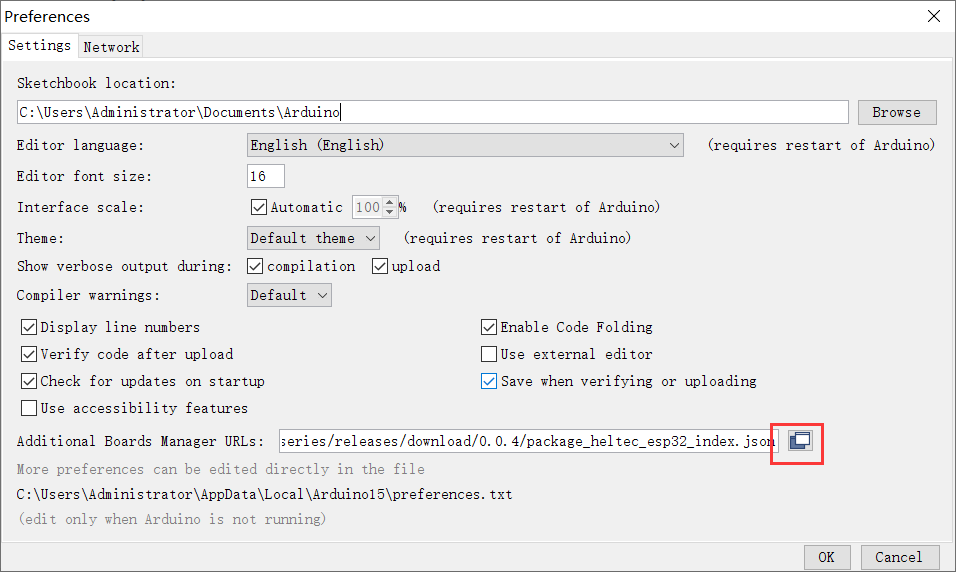
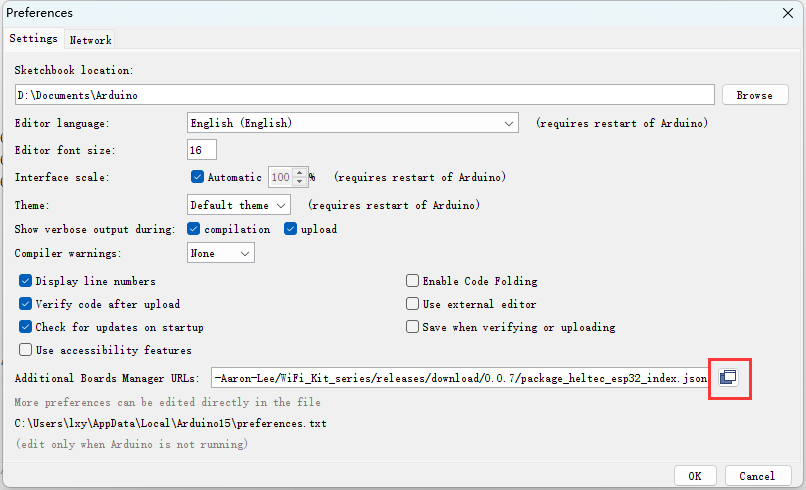
Update 1303

Changed region(s): [[0.0, 0.0, 1.0, 1.0], [0.4963, 0.551, 0.8065, 0.7041], [0.0, 0.0, 0.1551, 0.0918]]

diff --git a/doc/_ext/_static/js/custom.js b/doc/_ext/_static/js/custom.js
@@ -14,6 +14,7 @@ var prod_obj = {
         {text: "HT-M02_4G", value: "ht-m02_4g"},
         {text: "HT-M02_POE", value: "ht-m02_poe"},
         {text: "SX1301module", value: "sx1301module"},
+        {text: "SX1303module", value: "sx1303module"},
     ],
     node: [
         {text: "CUBECELL", value: "cubecell"},

diff --git a/doc/gateway/sx1303module/source/conf.py b/doc/gateway/sx1303module/source/conf.py
@@ -1,0 +1,25 @@
+# Configuration file for the Sphinx documentation builder.
+#
+# For the full list of built-in configuration values, see the documentation:
+# https://www.sphinx-doc.org/en/master/usage/configuration.html
+
+# -- Project information -----------------------------------------------------
+# https://www.sphinx-doc.org/en/master/usage/configuration.html#project-information
+
+project = 'sx1303module'
+conf_py_path = '/doc/gateway/sx1303module/source/'
+
+copyright = '2022, shug'
+author = 'shug'
+release = 'latest'
+
+# -- General configuration ---------------------------------------------------
+# https://www.sphinx-doc.org/en/master/usage/configuration.html#general-configuration
+
+import os
+import sys
+sys.path.insert(0, os.path.abspath('../../../_ext/'))
+from common_conf import *
+
+
+update_path(conf_py_path)

diff --git a/doc/node/esp32/source/quick_start.md b/doc/node/esp32/source/quick_start.md
@@ -7,12 +7,22 @@ The Heltec ESP32 development environment already contains the basic code. For th
 
 ![](img/quick_start/09.png)
 
+
+
 **There are two methods to install the development framework, choose one of they:**
 
 - [Via Arduino Board Manager](via-arduino-board-manager)
 - [Via Git](via-git)
 
 - [Via Local File](via-local-file)
+
+```Tip:: When we updated the V3 series development environment, we integrated the sample code and added it to the development environment without additional downloading libraries. We have handled the compatibility of the sample code so that the code can be used for various versions of the ESP32 development board. When you use the new development environment, the old version of the library can no longer be used, such as ESP32_ LoRaWAN, Heltec_ ESP32。 When you update the development environment, we recommend that you delete the old development environment, download the new development environment, and delete the old version of the library. For Git, it has been updated to the V3 series development environment on September 19, 2022. For  "Arduino Boards Manager", V0.0.7 is the V3 series development environment. If you modify a lot of code in the old development environment and use it in the project, we recommend that you still use the old development environment.
+
+```
+
+```Tip:: Due to the ESP32 chip was replaced in the V3 version of the ESP32 series product. If you install the old environment through Git and get updates through "git pull", you need to execute 'get.exe "under the" WiFi_Kit_series\esp32\tools "path again to download the latest compilation chain.
+
+```
 
 &nbsp;
 
@@ -33,9 +43,9 @@ Open Arduino IDE, and click `File`->`Peferences`.
 
 ![](img/quick_start/03.png)
 
-Click `Tools --> Board --> Boards Manager...`, search `Heltec ESP32` in the new pop-up dialog, then click `install`
+Click `Tools --> Board --> Boards Manager...`, search `Heltec ESP32` in the new pop-up dialog, then select the latest version and click `install`
 
-![](img/quick_start/04.png)
+![](img/quick_start/04.png)	
 
 ![](img/quick_start/05.png)
 

diff --git a/doc/gateway/sx1303module/source/qucik_start.md b/doc/gateway/sx1303module/source/qucik_start.md
@@ -1,0 +1,26 @@
+# SX1303 LoRa Gateway Module Quick Start
+
+{ht_translation}`[简体中文]:[English]`
+
+## Summary
+
+The HT1303 LoRaWAN concentrator is a mini-PCIe-based LPWAN concentrator module based on the Semtech SX1303, which enables easy integration into existing routers or other network equipment equipped with LPWAN Gateway capabilities.
+
+## Technical Characteristics
+
+### Pin Definition
+
+![](img/quick_start/01.png)
+
+### Electrical Characteristics
+
+![](img/quick_start/02.png)
+
+&nbsp;
+
+## Reference Design
+
+For reference design circuit, please refer to [https://resource.heltec.cn/download/HT-1303/HT-1303_Reference_Design.pdf](For reference design circuit, please refer to https://resource.heltec.cn/download/HT-1303/HT-1303_Reference_Design.pdf).
+
+For reference code, please refer to [https://github.com/Lora-net/sx1302_hal](https://github.com/Lora-net/sx1302_hal).
+

diff --git a/doc/gateway/sx1303module/source/index.rst b/doc/gateway/sx1303module/source/index.rst
@@ -1,0 +1,21 @@
+SX1303 Module
+=============
+:ht_translation:`[简体中文]:[English]`
+
+The HT1303 LoRaWAN concentrator is a mini-PCIe-based LPWAN concentrator module based on the Semtech SX1303, which enables easy integration into existing routers or other network equipment equipped with LPWAN Gateway capabilities.
+
+-  SX1303 baseband chip;
+-  SPI bus;
+-  SX1250 sub-GHz RF  Front End. 
+
+
+.. toctree::
+    :maxdepth: 2
+    
+    Quick Start <qucik_start>
+
+Relevant Offical Resources
+--------------------------
+
+- `Pin out diagram <https://resource.heltec.cn/download/HT-1303/HT-1303.png>`_.
+- `Reference design <https://resource.heltec.cn/download/HT-1303/HT-1303_Reference_Design.pdf>`_.

diff --git a/doc/main/index.rst b/doc/main/index.rst
@@ -18,6 +18,7 @@ This is the documentation for `Heltec Automation <https://heltec.org>`_ products
    HT-M01S-V2 Indoor LoRa Gateway <https://docs.heltec.org/en/gateway/ht-m01s_v2/index.html>
    HT-M02 Edge LoRa Gateway <https://docs.heltec.org/en/gateway/ht-m02_poe/index.html>
    SX1301 Module <https://docs.heltec.org/en/gateway/sx1301module/index.html>
+   SX1303 Module <https://docs.heltec.org/en/gateway/sx1303module/index.html>
 
 .. toctree::
    :maxdepth: 2
